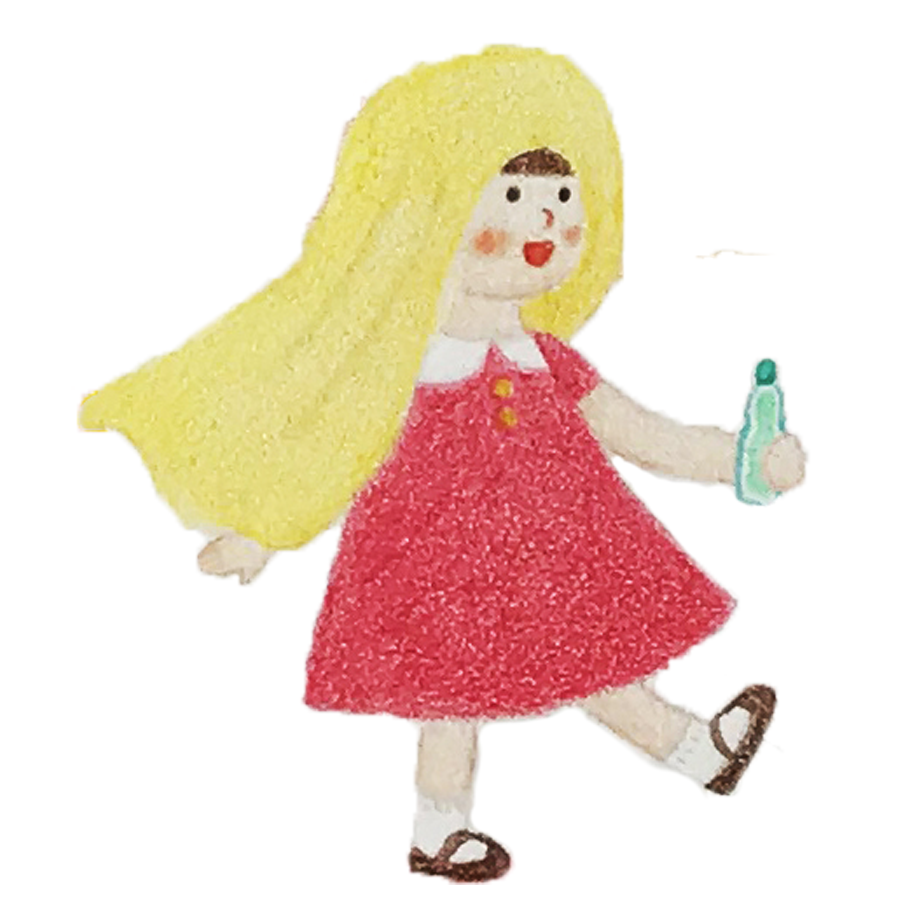
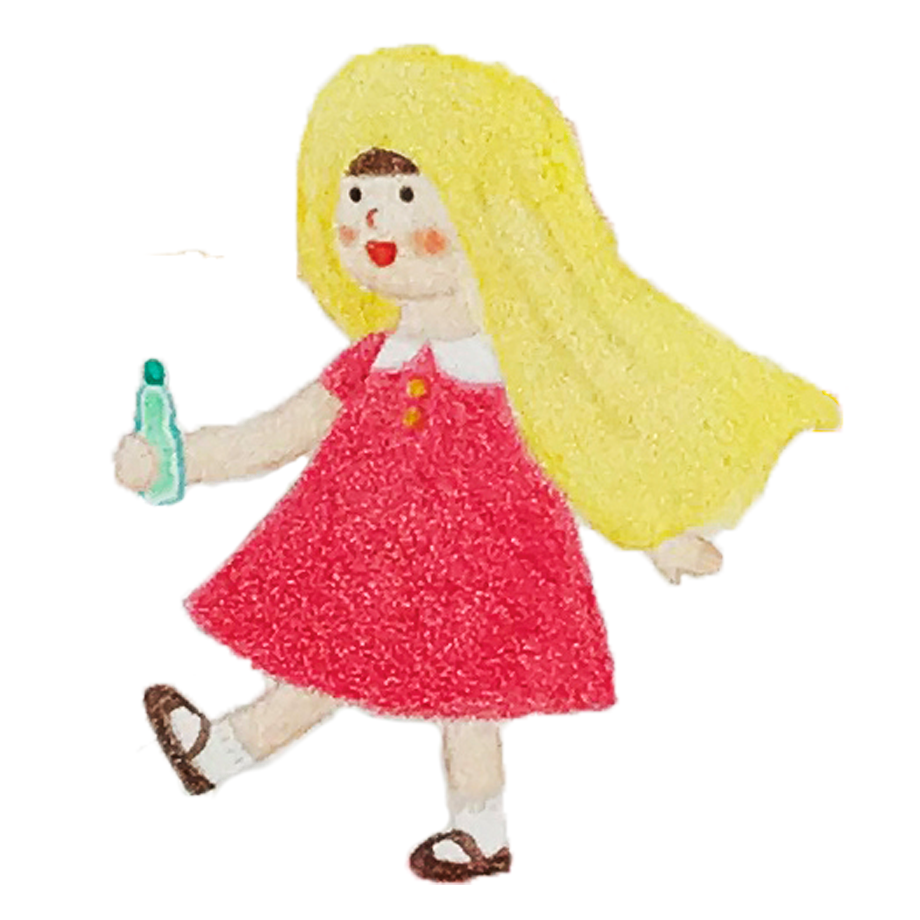
0626

diff --git a/app/index.html b/app/index.html
@@ -57,7 +57,7 @@ current: index
               animation
             </span>行銷推廣</h3>
           <div class="mt-16">
-            <p>Jorem ipsum dolor sit amet, consectetur adipiscing</p>
+            <p>將自家產品或活動的特色介紹給顧客，並依據需求推薦讓顧客滿意的產品</p>
           </div>
         </div>
         <div class="pb-24 border-bottom border-dark mb-40 text-dark">
@@ -65,7 +65,7 @@ current: index
               animation
             </span>活動支援</h3>
           <div class="mt-16">
-            <p>Jorem ipsum dolor sit amet, consectetur adipiscing</p>
+            <p>協助活動場地佈置、接待與會者，並確保活動流暢進行</p>
           </div>
         </div>
         <div class="pb-24 border-bottom border-dark text-dark">
@@ -73,7 +73,7 @@ current: index
               animation
             </span>手作工藝</h3>
           <div class="mt-16">
-            <p>Jorem ipsum dolor sit amet, consectetur adipiscing</p>
+            <p>擅長黏土、羊毛氈及藺草編織等手作技術，能夠進行教學及販售作品</p>
           </div>
         </div>
       </div>
@@ -83,7 +83,7 @@ current: index
 </div>
 
 <div class="container">
-  <div class="pt-240 pb-120" id="exp">
+  <div class="pt-160 pb-160" id="exp">
     <div class="row">
       <div class="col-2"></div>
       <div class="col-3">
@@ -106,7 +106,7 @@ current: index
             <div class="swiper-slide">
               <div class="border-top border-dark pt-32 text-left position-relative timeline">
                 <p class="text-primary ff-pap">2023</p>
-                <h4 class="fs-16 mb-16">國立臺中教育大學 <br>
+                <h4 class="fs-16 mb-16">國立臺中教育大學<br>
                   <span class="fw-bold">美術學系設計組研究所畢業</span>
                 </h4>
                 <h4 class="fs-16 ps-60">楓糖男孩 <br>
@@ -120,7 +120,7 @@ current: index
                 <p class="text-primary ff-pap">2022</p>
                 <h4 class="fs-16 fw-bold ps-16 mb-16">藝術家助手</h4>
                 <h4 class="fs-16 ps-40">勤美成品綠園道<br>
-                  <span class="fw-bold">活動推廣</span>
+                  <span class="fw-bold">活動推廣人員</span>
                 </h4>
               </div>
             </div>
@@ -261,7 +261,7 @@ current: index
       <div class="col-1"></div>
     </div>
 
-    <div class="row mt-80">
+    <div class="row align-items-end mt-80">
       <div class="col-2"></div>
       <div class="col-3">
         <div class="card border-0 rounded-0 position-relative">
@@ -284,6 +284,10 @@ current: index
           </div>
           <div class="deer-pop"><img src="./assets/images/deer-pop.png" alt=""></div>
         </div>
+      </div>
+      <div class="col-1"></div>
+      <div class="col-3">
+        <div class="portfolio-img align-right"></div>
       </div>
     </div>
   </div>

diff --git a/app/assets/style/layout/_index.scss b/app/assets/style/layout/_index.scss
@@ -61,3 +61,13 @@
     display: block;
   }
 }
+
+.portfolio-img{
+  width: 100%;
+  height: 240px;
+  background-image: url(https://github.com/hd1313169/lin/blob/main/app/assets/images/girl-2.png?raw=true);
+  background-position: center;
+  background-size: contain;
+  background-repeat: no-repeat;
+
+}
